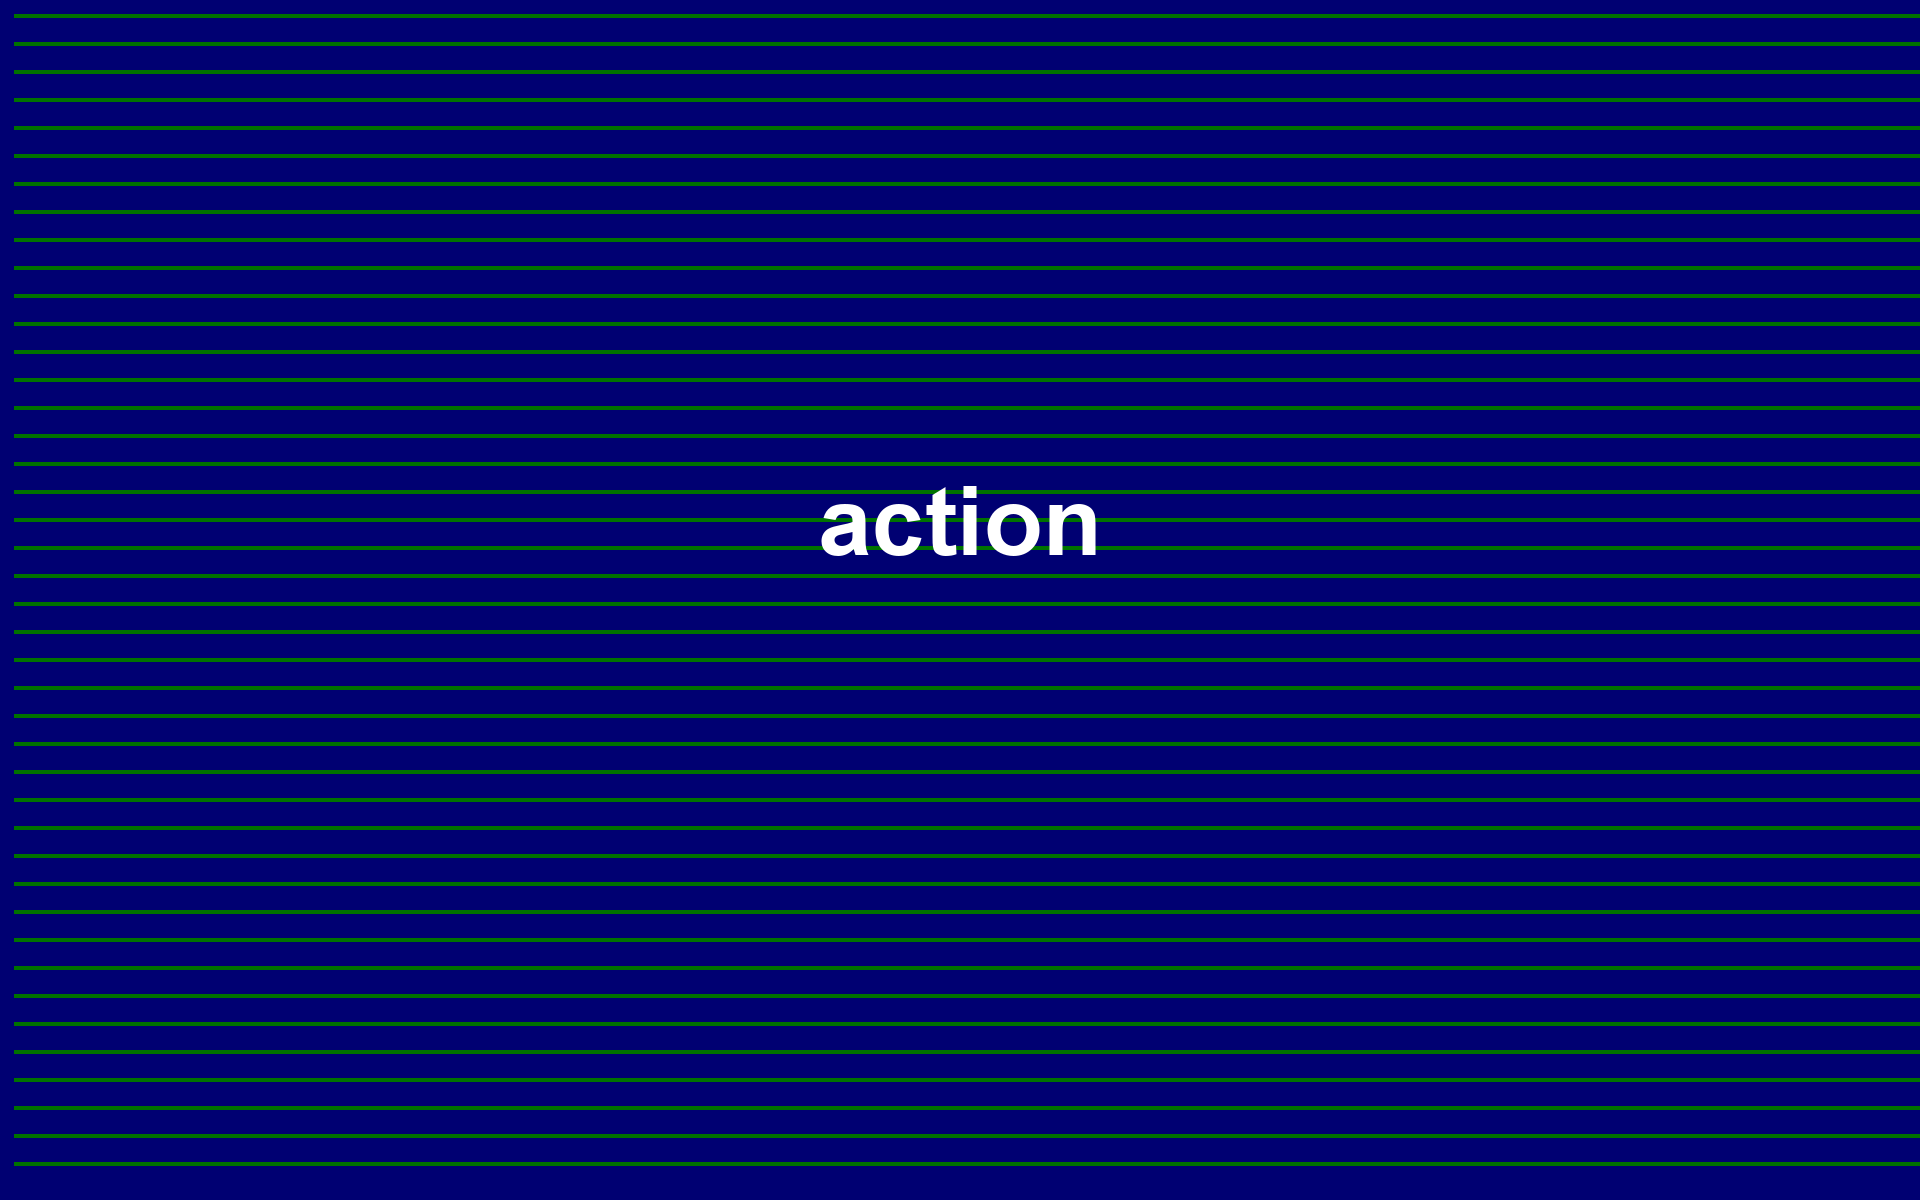
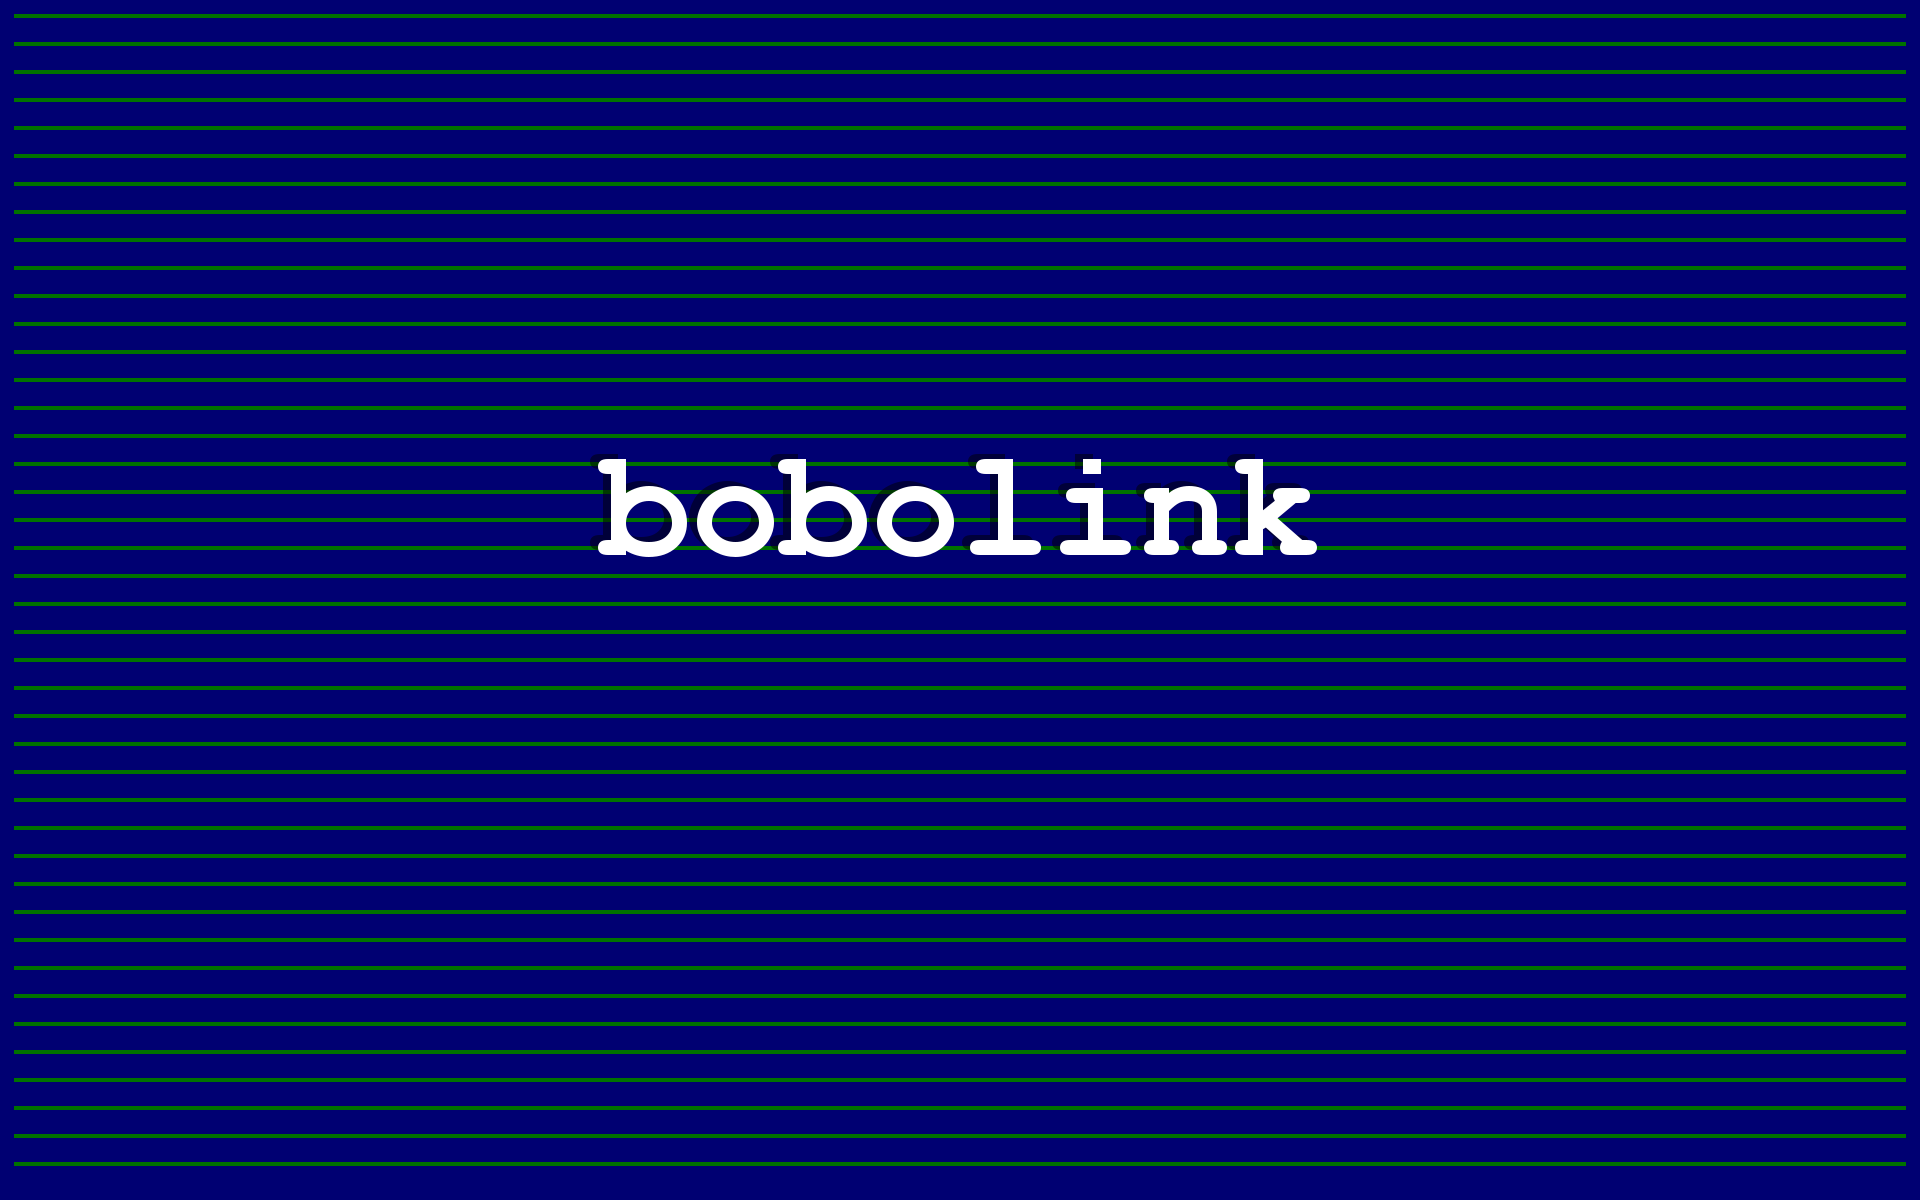
Refactor. Split out functions. Bigger font.

Changed region(s): [[0.3125, 0.37, 0.6875, 0.4625]]

diff --git a/index.js b/index.js
@@ -1,10 +1,10 @@
 import c from 'canvas'
 import os from 'os'
-import friendlyWords from 'friendly-words'
 
 import { savePNG } from './lib/io.js'
 import { Gfx } from './lib/gfx.js'
-import { Colour } from './lib/colour.js'
+import { Colour, Stock } from './lib/colour.js'
+import { getWord, getFont } from './lib/words.js'
 
 const width = 1920
 const height = 1200
@@ -14,23 +14,34 @@ const context = canvas.getContext('2d')
 const g = new Gfx(context, width, height)
 
 const date = new Date()
-const day = date.getDate()
-const background = new Colour(0, 0, 100 + day)
-const foreground = new Colour(0, 100 + day, 0)
+let day = date.getDate()
+const shade = date.getDate() + 100
+const palette = {
+  background: new Colour(0, 0, shade),
+  grid: new Colour(0, shade, 0),
+}
+console.log(date)
+console.log('OS:\t' + os.platform())
 
-const shade = date.getDay() + 100
-console.log(os.platform() + ' ' + date)
-g.cls(background)
+g.cls(palette.background)
 
-for (let h = day; h < height - day; h += day * 2) {
-  g.drawHStripe(foreground, h, width - day, 4, day)
+if (day % 2 === 0) {
+  for (let h = day; h < height - day; h += day * 2) {
+    g.drawHStripe(palette.grid, h, width - day * 2, 4, day)
+  }
 }
 
-console.log(friendlyWords.objects[day])
-const word = friendlyWords.objects[day]
-context.fillStyle = '#ffffff'
-context.font = 'bold 72pt Arial'
+if (day % 4 === 0) {
+  for (let h = day; h < width - day; h += day * 2) {
+    g.drawVStripe(palette.grid, h, height - day * 2, 4, day)
+  }
+}
+
+const word = getWord()
+context.font = getFont(111)
+
 const textWidth = context.measureText(word).width
-context.fillText(word, (width - textWidth) / 2, 555)
+
+g.drawText(Stock.white, (width - textWidth) / 2, 555, word)
 
 savePNG(canvas, 'out\\test.png')

diff --git a/lib/gfx.js b/lib/gfx.js
@@ -4,14 +4,32 @@ export class Gfx {
     this.width = width
     this.height = height
   }
+
   cls(color) {
     const c = this.context
     c.fillStyle = color.getColor()
     c.fillRect(0, 0, this.width, this.height)
   }
+
   drawHStripe(color, y, width, thickness = 1, start = 0) {
     const c = this.context
     c.fillStyle = color.getColor()
     c.fillRect(start, y, width, thickness)
+  }
+
+  drawVStripe(color, x, height, thickness = 1, start = 0) {
+    const c = this.context
+    c.fillStyle = color.getColor()
+    c.fillRect(x, start, thickness, height)
+  }
+
+  drawText(color, x, y, text, shadow = true, x_s = 8, y_s = 5) {
+    const c = this.context
+    if (shadow) {
+      c.fillStyle = 'rgba(0,0,0,0.5)'
+      c.fillText(text, x - x_s, y - y_s)
+    }
+    c.fillStyle = color.getColor()
+    c.fillText(text, x, y)
   }
 }

diff --git a/lib/words.js b/lib/words.js
@@ -1,0 +1,9 @@
+import friendlyWords from 'friendly-words'
+
+export const getWord = () =>
+  friendlyWords.objects[
+    new Date().getMilliseconds() % friendlyWords.objects.length
+  ]
+  
+export const getFont = (size) =>
+  `bold ${size + (new Date().getDay() + 1) * 2}pt mono`
